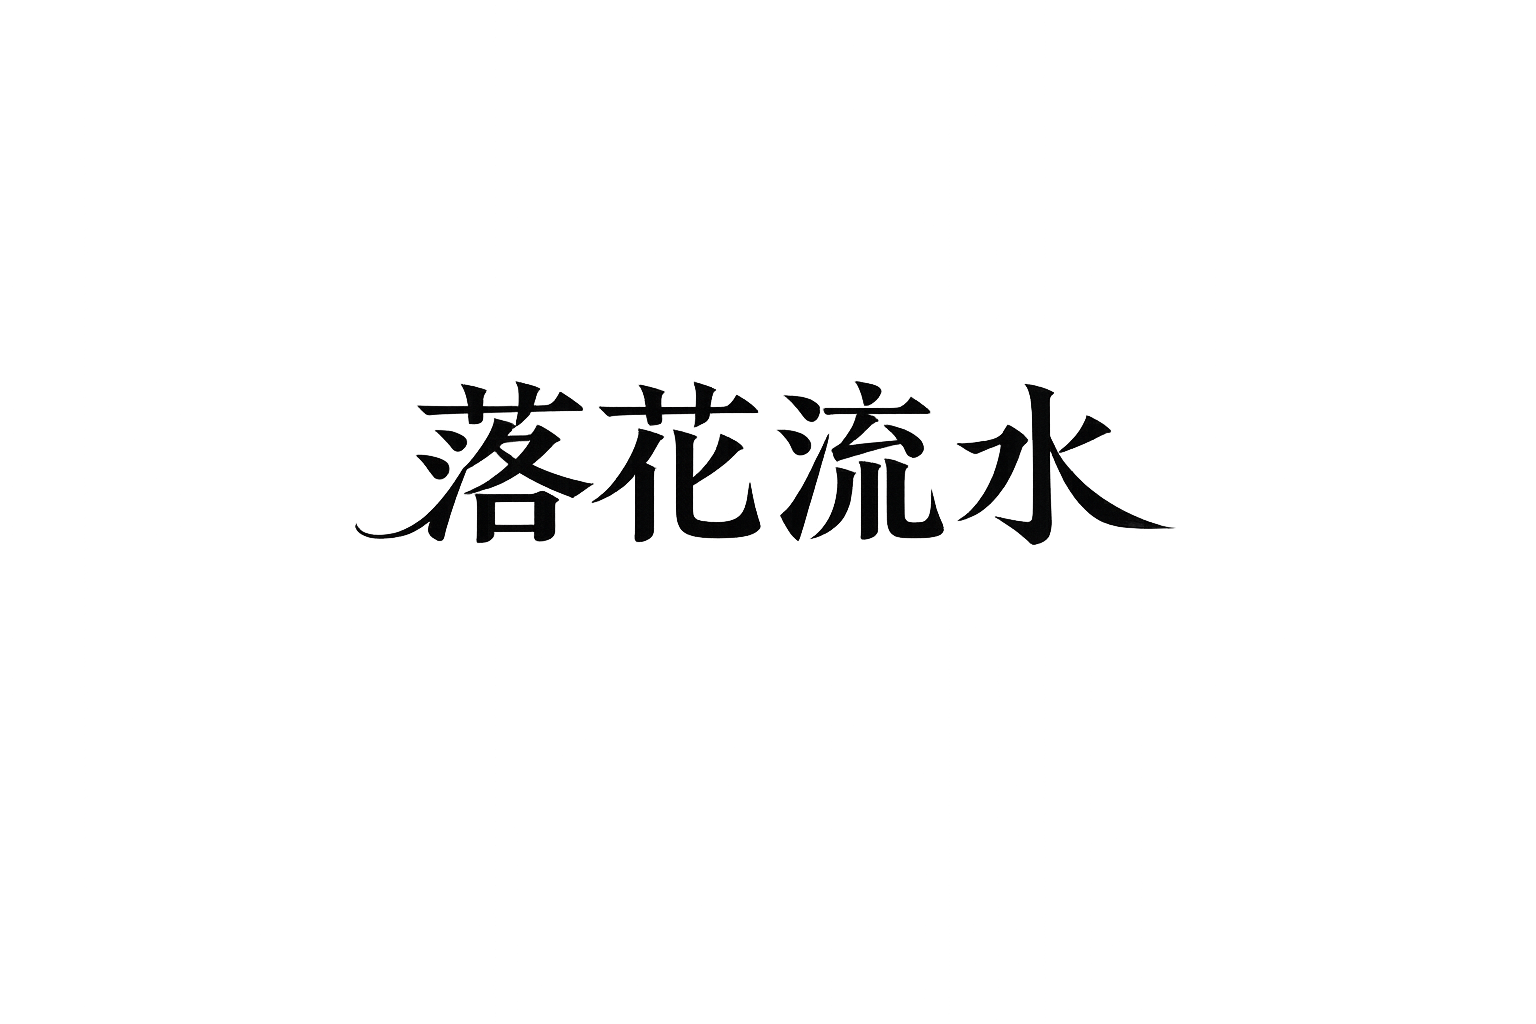
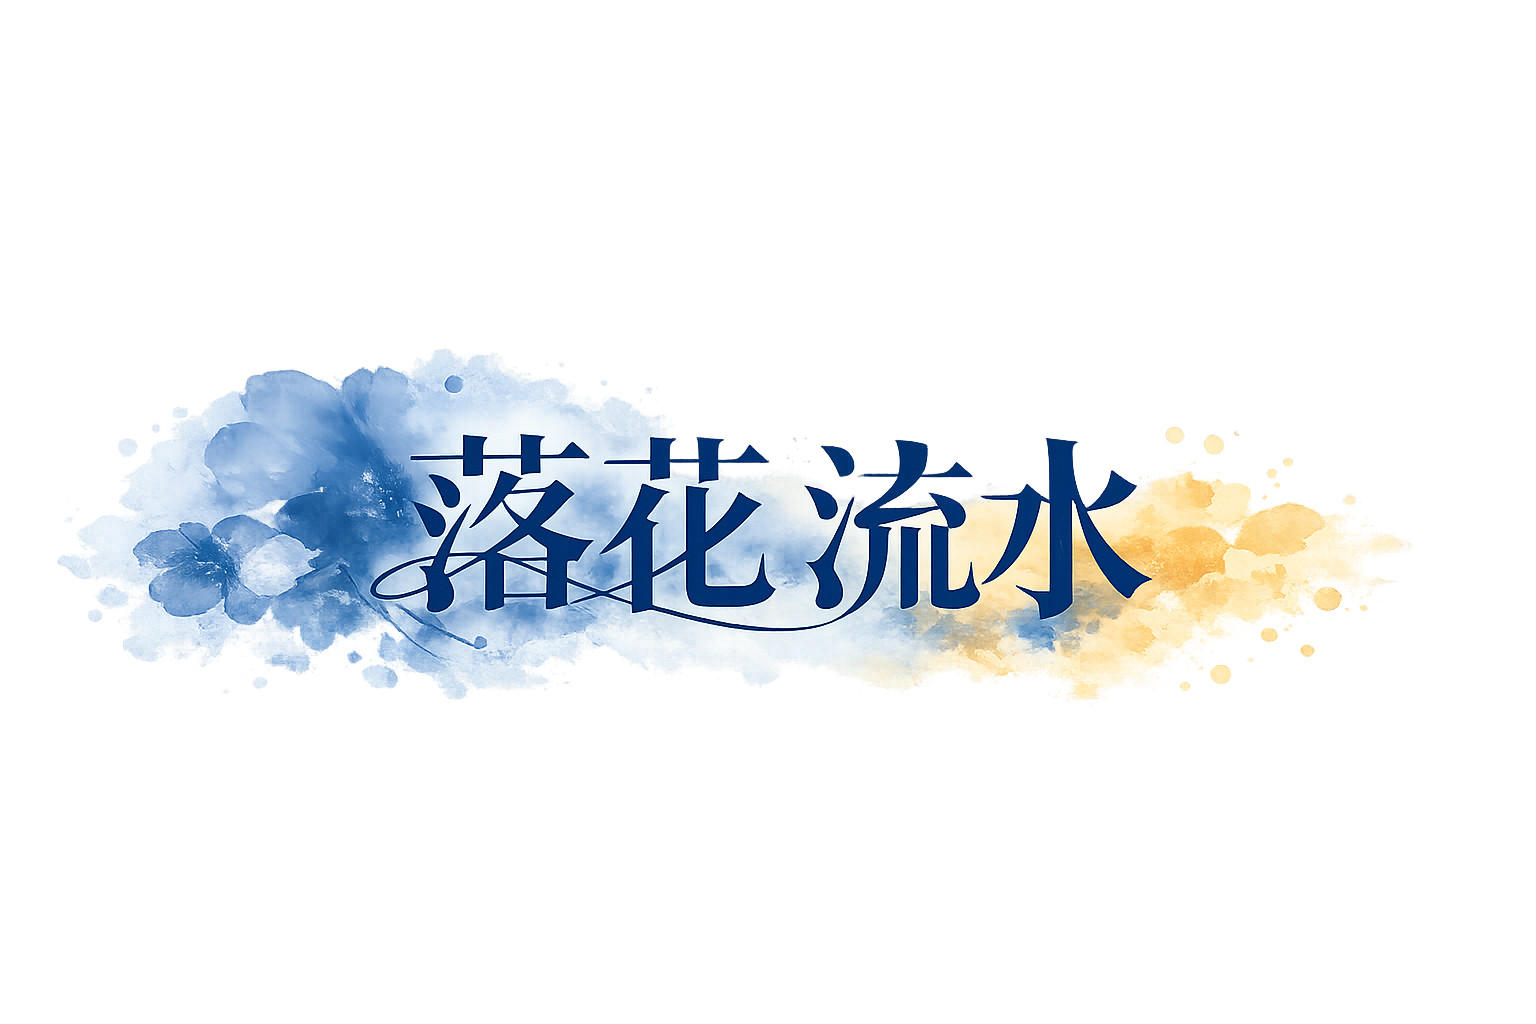
[DANZ-204] chore: 헤더 로고 원색 노출 및 헤더 톤 보정

Changed region(s): [[0.0312, 0.3438, 0.9062, 0.6875], [0.7812, 0.6562, 0.8125, 0.6875], [0.4688, 0.6562, 0.5, 0.6875]]

diff --git a/src/components/layout/Header.tsx b/src/components/layout/Header.tsx
@@ -20,8 +20,8 @@ const Header = () => {
   return (
     <header
       className="
+        app-main-header
         sticky top-0 z-50
-        bg-[var(--app-header-bg)]
         border-b border-[var(--app-header-border)]
         pt-[env(safe-area-inset-top)]
       "
@@ -30,7 +30,7 @@ const Header = () => {
         <img
           src="/DAN-ZZAN.png"
           alt="DAN-ZZAN"
-          className="pointer-events-none absolute top-[75%] left-1/2 h-[68px] w-[300px] -translate-x-1/2 -translate-y-1/2 object-cover object-[50%_58%] select-none brightness-0 invert"
+          className="pointer-events-none absolute top-[75%] left-1/2 h-[68px] w-[300px] -translate-x-1/2 -translate-y-1/2 object-cover object-[50%_58%] select-none"
           draggable={false}
         />
 
